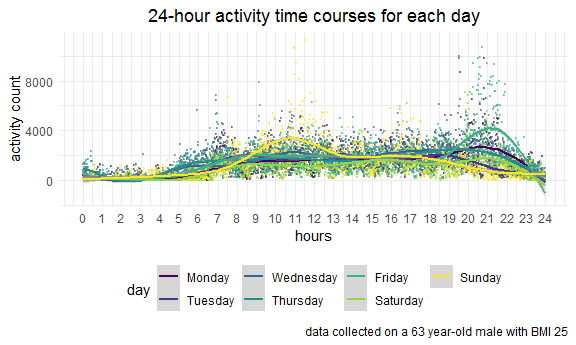
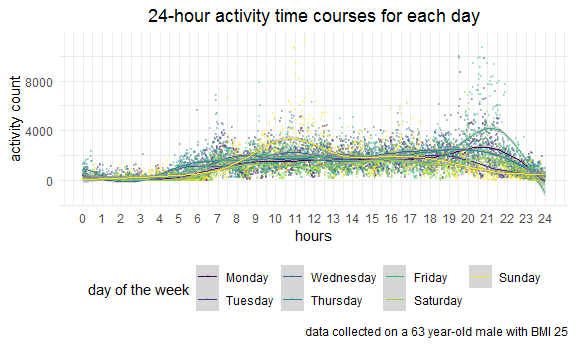
update Problem 1 & 2 plots

diff --git a/p8105_hw3_wc2750.md b/p8105_hw3_wc2750.md
@@ -54,7 +54,8 @@ instacart %>%
   ) %>%
   ggplot(aes(x= aisle, y = n)) +
   geom_point() +
-  theme(axis.text.x = element_text(angle = 90, vjust = 0.5, hjust = 1))
+  labs(y = "number of items", title = "Number of items ordered in each aisle") +
+  theme(axis.text.x = element_text(angle = 90, vjust = 0.5, hjust = 1), plot.title = element_text(hjust = 0.5))
 ```
 
 <img src="p8105_hw3_wc2750_files/figure-gfm/unnamed-chunk-3-1.png" width="90%" />
@@ -244,9 +245,9 @@ accel_df %>%
   group_by(day, minute) %>%
   summarize(weekday_activity = sum(activity_count)) %>%
   ggplot(aes(x = minute, y = weekday_activity, color = day)) +
-  geom_point(alpha = .5, size = .5) +
-  geom_smooth() +
-  labs(x= "hours", y= "activity count", title = "24-hour activity time courses for each day", caption = "data collected on a 63 year-old male with BMI 25") +
+  geom_point(alpha = .3, size = .5) +
+  geom_smooth(size = .5) +
+  labs(x= "hours", y= "activity count", title = "24-hour activity time courses for each day", caption = "data collected on a 63 year-old male with BMI 25", color = "day of the week") +
   scale_x_continuous(
     breaks = c(seq(0, 1440, by = 60)),
     labels = c(seq(0, 24, by = 1))) +
